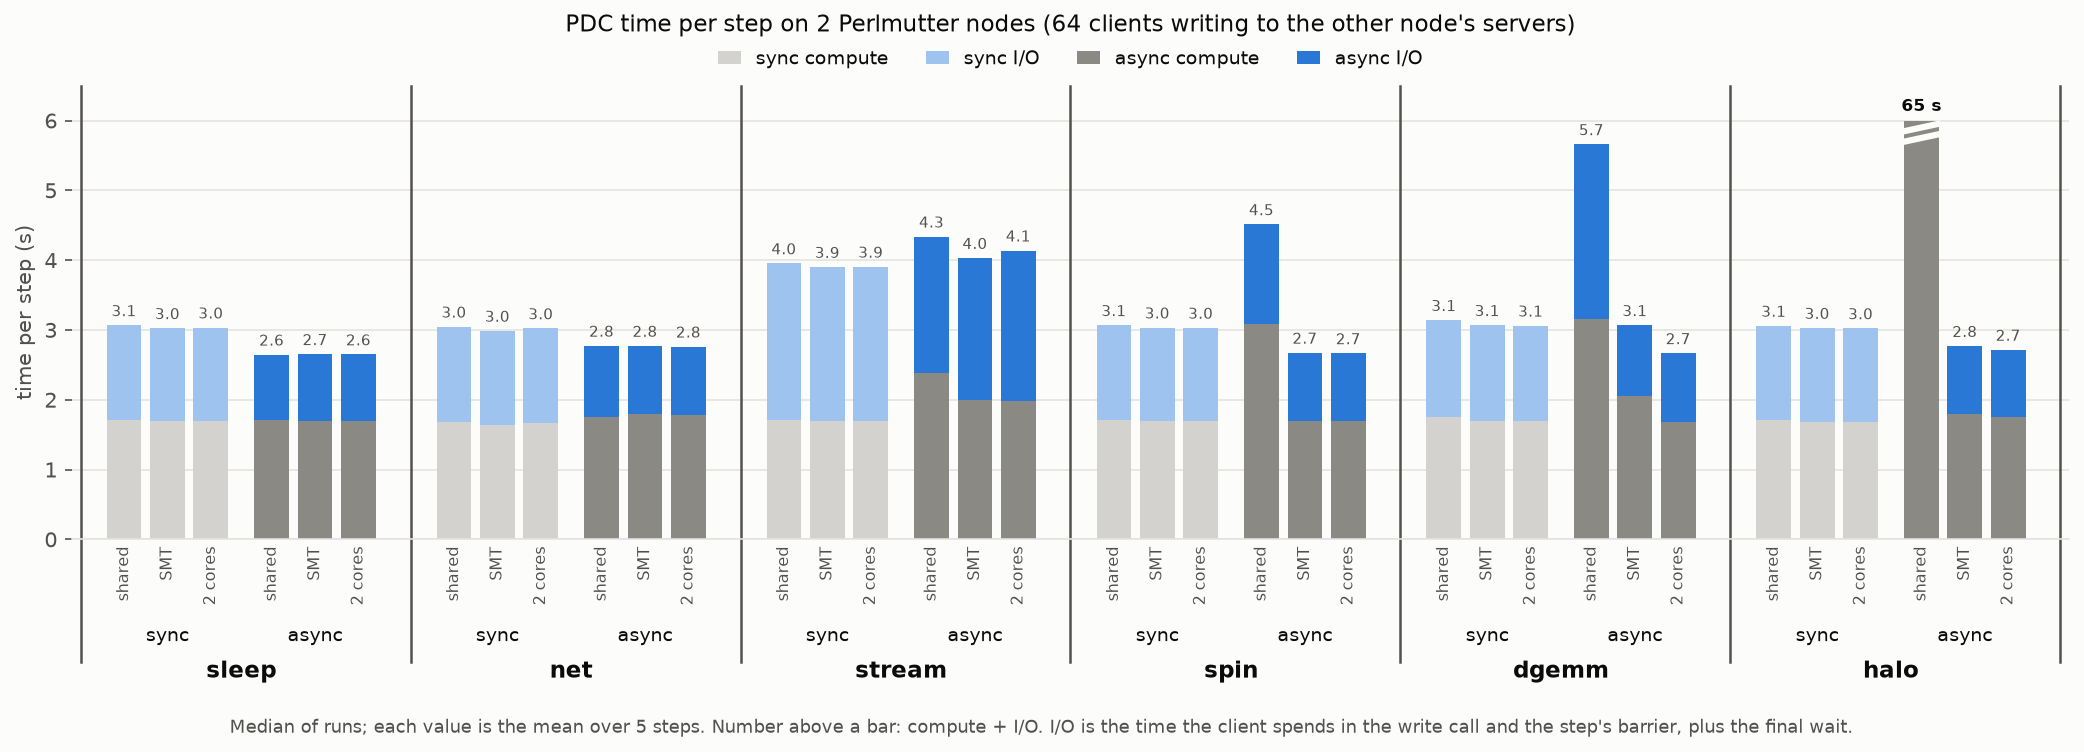
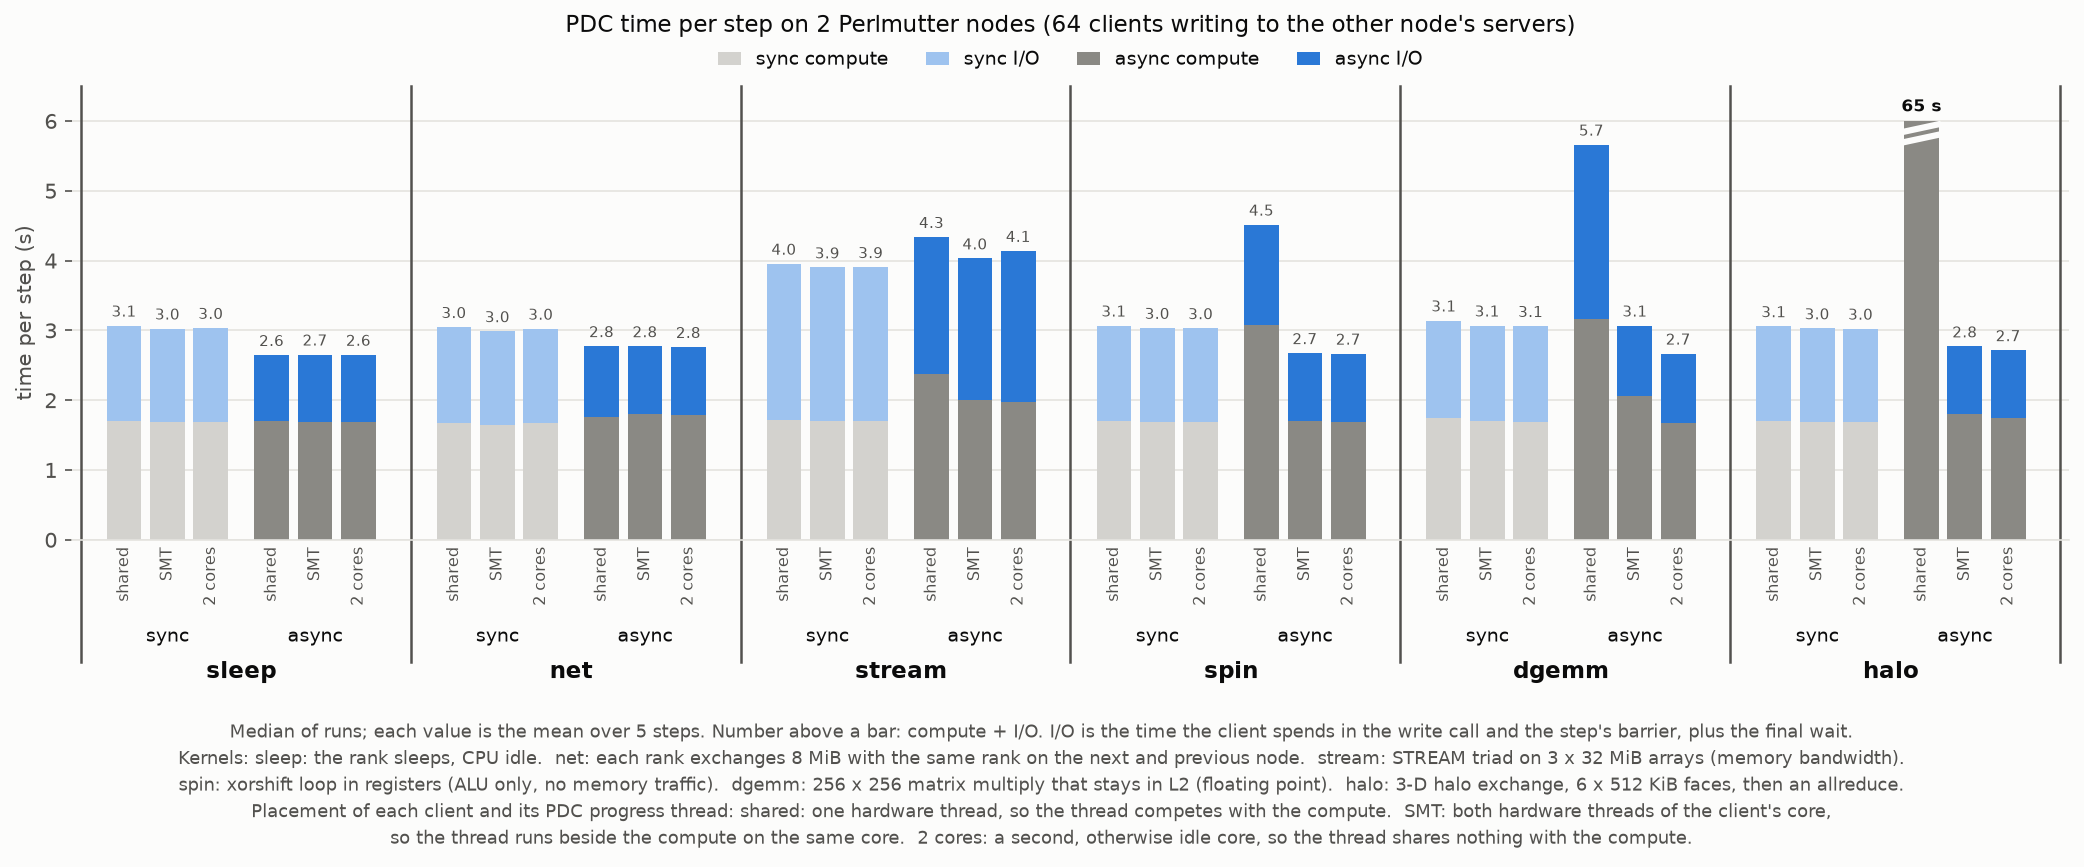
Explain kernels and placements in step breakdown caption

diff --git a/analysis/perlmutter/plots.py b/analysis/perlmutter/plots.py
@@ -309,7 +309,16 @@ ax.legend(loc="lower center", bbox_to_anchor=(0.5, 1.0), fontsize=9, ncol=4, han
 ax.set_title("PDC time per step on 2 Perlmutter nodes (64 clients writing to the other node's servers)",
              loc="center", fontsize=11, pad=26)
 fig.tight_layout()
-fig.text(0.5, -0.01, "Median of runs; each value is the mean over 5 steps. Number above a bar: compute + I/O. "
-         "I/O is the time the client spends in the write call and the step's barrier, plus the final wait.",
-         ha="center", va="top", fontsize=8.5, color=INK2)
+fig.text(0.5, -0.01,
+         "Median of runs; each value is the mean over 5 steps. Number above a bar: compute + I/O. "
+         "I/O is the time the client spends in the write call and the step's barrier, plus the final wait.\n"
+         "Kernels: sleep: the rank sleeps, CPU idle.  net: each rank exchanges 8 MiB with the same rank on the "
+         "next and previous node.  stream: STREAM triad on 3 x 32 MiB arrays (memory bandwidth).\n"
+         "spin: xorshift loop in registers (ALU only, no memory traffic).  dgemm: 256 x 256 matrix multiply that "
+         "stays in L2 (floating point).  halo: 3-D halo exchange, 6 x 512 KiB faces, then an allreduce.\n"
+         "Placement of each client and its PDC progress thread: shared: one hardware thread, so the thread "
+         "competes with the compute.  SMT: both hardware threads of the client's core,\n"
+         "so the thread runs beside the compute on the same core.  2 cores: a second, otherwise idle core, "
+         "so the thread shares nothing with the compute.",
+         ha="center", va="top", fontsize=8.5, color=INK2, linespacing=1.5)
 save(fig, "7_step_breakdown.png")
